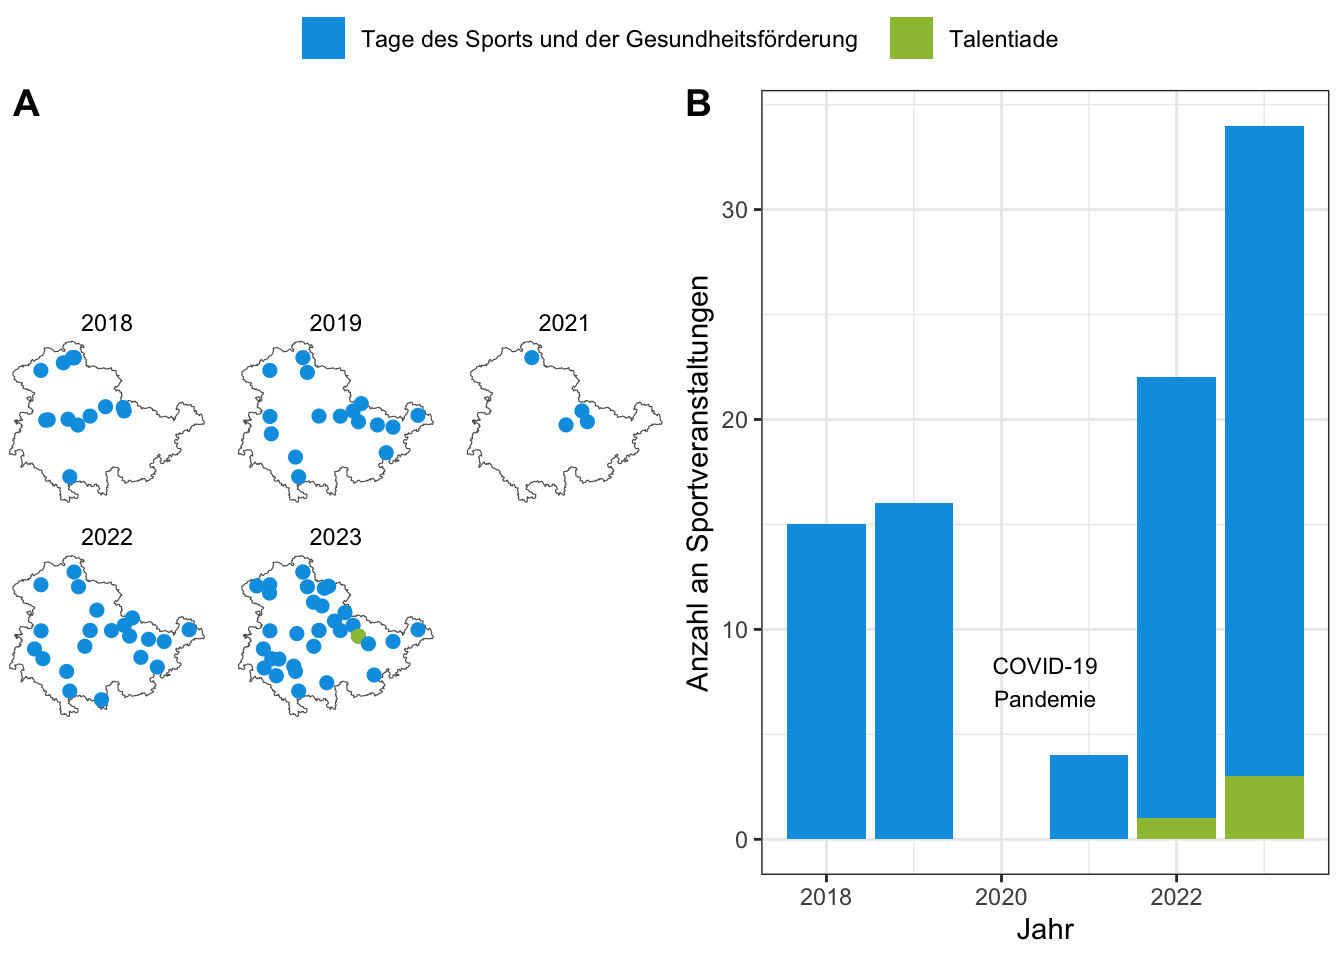
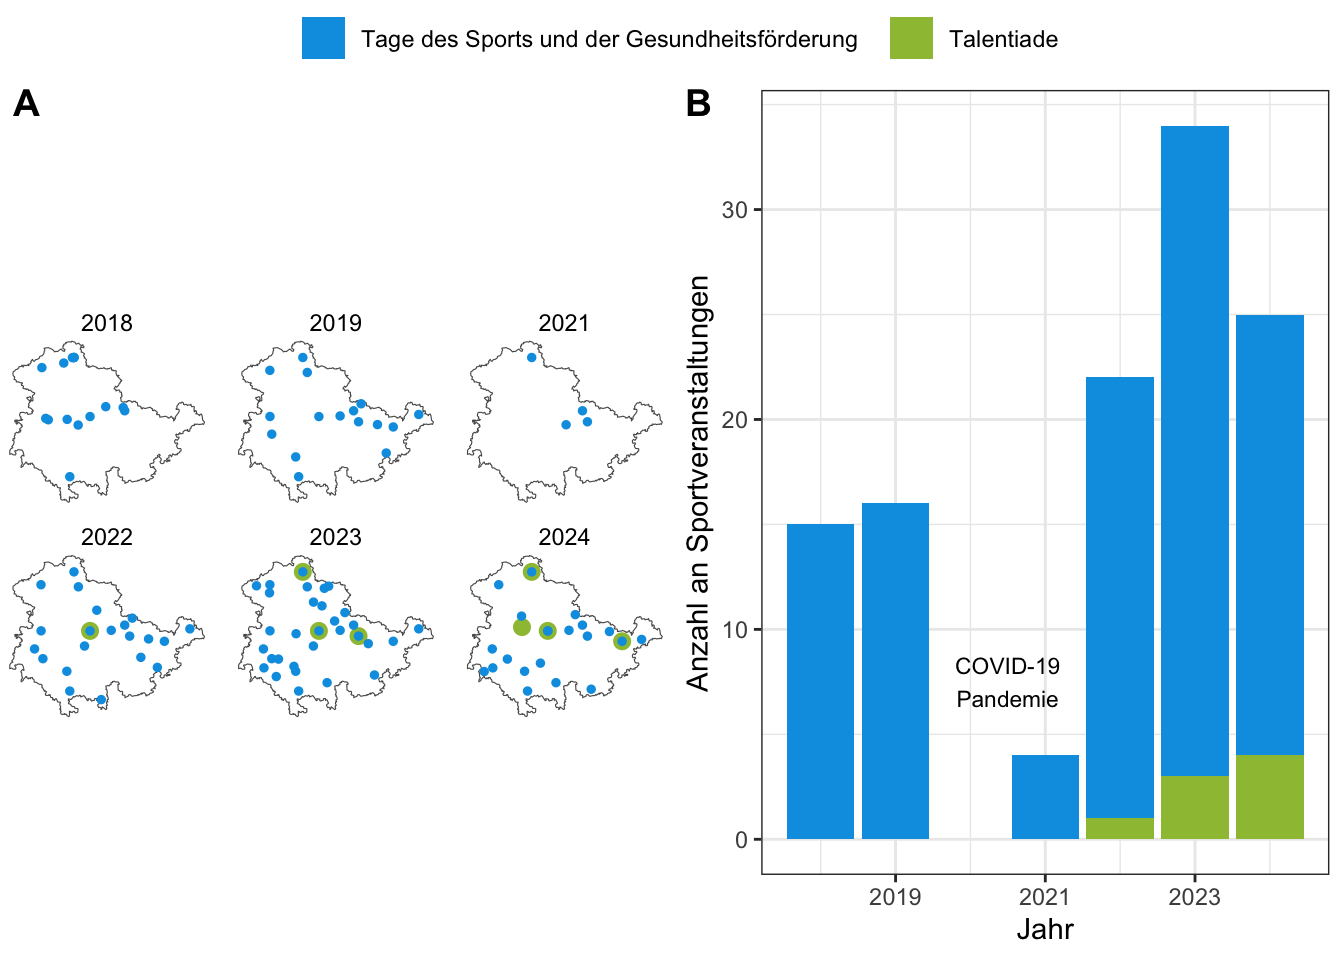
Sportveranstaltungen

diff --git a/docs/003.html b/docs/003.html
@@ -108,7 +108,7 @@ ul.task-list li input[type="checkbox"] {
       <button type="button" class="quarto-btn-toggle btn" data-bs-toggle="collapse" data-bs-target="#quarto-sidebar,#quarto-sidebar-glass" aria-controls="quarto-sidebar" aria-expanded="false" aria-label="Seitenleiste umschalten" onclick="if (window.quartoToggleHeadroom) { window.quartoToggleHeadroom(); }">
         <i class="bi bi-layout-text-sidebar-reverse"></i>
       </button>
-      <nav class="quarto-page-breadcrumbs" aria-label="breadcrumb"><ol class="breadcrumb"><li class="breadcrumb-item"><a href="./003.html">Sport-Veranstaltungen</a></li><li class="breadcrumb-item"><a href="./003.html">2018-2023</a></li></ol></nav>
+      <nav class="quarto-page-breadcrumbs" aria-label="breadcrumb"><ol class="breadcrumb"><li class="breadcrumb-item"><a href="./003.html">Sport-Veranstaltungen</a></li><li class="breadcrumb-item"><a href="./003.html">2018-2024</a></li></ol></nav>
       <a class="flex-grow-1" role="button" data-bs-toggle="collapse" data-bs-target="#quarto-sidebar,#quarto-sidebar-glass" aria-controls="quarto-sidebar" aria-expanded="false" aria-label="Seitenleiste umschalten" onclick="if (window.quartoToggleHeadroom) { window.quartoToggleHeadroom(); }">      
       </a>
       <button type="button" class="btn quarto-search-button" aria-label="Suchen" onclick="window.quartoOpenSearch();">
@@ -169,7 +169,7 @@ ul.task-list li input[type="checkbox"] {
           <li class="sidebar-item">
   <div class="sidebar-item-container"> 
   <a href="./003.html" class="sidebar-item-text sidebar-link active">
- <span class="menu-text">2018-2023</span></a>
+ <span class="menu-text">2018-2024</span></a>
   </div>
 </li>
       </ul>
@@ -236,7 +236,7 @@ ul.task-list li input[type="checkbox"] {
     <div>
     <div class="quarto-title-meta-heading">Geändert</div>
     <div class="quarto-title-meta-contents">
-      <p class="date-modified">28. März 2024</p>
+      <p class="date-modified">10. Juni 2024</p>
     </div>
   </div>
     
@@ -245,12 +245,14 @@ ul.task-list li input[type="checkbox"] {
 <div>
   <div class="abstract">
     <div class="abstract-title">Zusammenfassung</div>
-    <p>Die folgende Seite fasst die vergangenen und aktuellen Sport-Veranstaltungen “Talentiade” und “Tage des Sports und der Gesudheitsförderung” im Rahmen des Programmes “Bewegte Kinder = Gesündere Kinder” in Thüringen zusammen.</p>
+    <p>Die folgende Seite fasst zusammen, <em>wann</em> und <em>wo</em> Sport-Veranstaltungen “Talentiade” und “Tage des Sports und der Gesudheitsförderung” im Rahmen des Programms “Bewegte Kinder = Gesündere Kinder” in Thüringen stattfanden.</p>
   </div>
 </div>
 
 </header>
 
+<section id="räumliche-verteilung-und-entwicklung-der-veranstaltungen" class="level2">
+<h2 class="anchored" data-anchor-id="räumliche-verteilung-und-entwicklung-der-veranstaltungen">Räumliche Verteilung und Entwicklung der Veranstaltungen</h2>
 <div class="cell">
 <div class="cell-output-display">
 <div class="quarto-figure quarto-figure-center">
@@ -261,18 +263,48 @@ ul.task-list li input[type="checkbox"] {
 </div>
 </div>
 </div>
+</section>
+<section id="talentiaden" class="level2">
+<h2 class="anchored" data-anchor-id="talentiaden">Talentiaden</h2>
+<section id="veranstaltungsorte" class="level3">
+<h3 class="anchored" data-anchor-id="veranstaltungsorte">Veranstaltungsorte</h3>
 <div class="cell">
 <div class="cell-output-display">
 
-<div class="reactable html-widget html-fill-item" id="htmlwidget-518828a0e9884a7de484" style="width:auto;height:auto;"></div>
-<script type="application/json" data-for="htmlwidget-518828a0e9884a7de484">{"x":{"tag":{"name":"Reactable","attribs":{"data":{"Datum":["2018-04-21","2018-05-05","2018-05-25","2018-06-03","2018-06-06","2018-06-14","2018-06-18","2018-06-20","2018-06-21","2018-06-21","2018-06-22","2018-06-22","2018-06-23","2018-06-25","2018-08-29","2019-03-30","2019-05-01","2019-05-09","2019-05-18","2019-05-25","2019-05-25","2019-06-01","2019-06-08","2019-06-08","2019-06-15","2019-06-22","2019-06-22","2019-06-29","2019-06-29","2019-09-07","2019-11-17","2021-09-04","2021-09-11","2021-09-25","2021-12-04","2022-04-30","2022-05-01","2022-05-07","2022-05-14","2022-05-21","2022-05-21","2022-05-22","2022-06-09","2022-06-11","2022-06-11","2022-06-11","2022-06-15","2022-06-24","2022-06-25","2022-06-25","2022-07-01","2022-07-02","2022-07-09","2022-07-09","2022-07-16","2022-07-17","2022-09-03","2023-03-25","2023-04-22","2023-04-22","2023-04-29","2023-04-29","2023-05-01","2023-05-06","2023-05-06","2023-05-06","2023-05-13","2023-05-19","2023-05-24","2023-05-27","2023-05-31","2023-06-01","2023-06-01","2023-06-02","2023-06-03","2023-06-04","2023-06-08","2023-06-10","2023-06-10","2023-06-10","2023-06-10","2023-06-15","2023-06-17","2023-06-17","2023-06-17","2023-06-23","2023-06-24","2023-06-24","2023-06-25","2023-06-30","2023-07-01"],"Ort":["Leinefelde-Worbis","Wutha-Farnroda","Schönau (Wutha-Farnroda)","Hildburghausen","Apolda","Berlstedt","Nordhausen","Zottelstedt","Nordhausen","Wandersleben","Niedersalza","Nordhausen","Wipperdorf","Erfurt","Gotha","Leinefelde","Erfurt","Bad Liebenstein","Zeulenroda","Gera","Nordhausen","Hermsdorf/Thür.","Eisenach","Sondershausen","Jena","Altenburg","Hildburghausen","Apolda","Suhl","Bad Sulza","Weimar","Nordhausen","Bad Berka","Jena","Apolda","Leinefelde","Erfurt","Sonneberg","Sömmerda","Jena","Sondershausen","Hildburghausen","Bad Salzungen","Altenburg","Erfurt","Weimar","Wernshausen","Suhl","Neustadt/Orla","Nordhausen","Zeulenroda","Apolda","Arnstadt","Eisenach","Gera","Hermsdorf/Thür.","Bad Sulza","Erfurt","Leinefelde","Weimar","Gera","Heilbad Heiligenstadt/Thüringen","Greußen","Hildburghausen","Jena","Nordhausen","Mannstedt","Dingelstädt","Sondershausen","Schmalkalden","Meiningen","Bad Frankenhausen","Zella-Mehlis","Berlstedt","Nordhausen","Suhl","Bad Salzungen","Altenburg","Gotha","Jena","Udersleben","Erfurt","Apolda","Neuhaus am Rennweg","Weißensee/Thüringen","Stadtroda","Eisenach","Wernshausen","Schleiz","Oepfershausen","Arnstadt"],"Veranstaltung":["Tage des Sports und der Gesundheitsförderung ","Tage des Sports und der Gesundheitsförderung ","Tage des Sports und der Gesundheitsförderung ","Tage des Sports und der Gesundheitsförderung ","Tage des Sports und der Gesundheitsförderung ","Tage des Sports und der Gesundheitsförderung ","Tage des Sports und der Gesundheitsförderung ","Tage des Sports und der Gesundheitsförderung ","Tage des Sports und der Gesundheitsförderung ","Tage des Sports und der Gesundheitsförderung ","Tage des Sports und der Gesundheitsförderung ","Tage des Sports und der Gesundheitsförderung ","Tage des Sports und der Gesundheitsförderung ","Tage des Sports und der Gesundheitsförderung ","Tage des Sports und der Gesundheitsförderung ","Tage des Sports und der Gesundheitsförderung ","Tage des Sports und der Gesundheitsförderung ","Tage des Sports und der Gesundheitsförderung ","Tage des Sports und der Gesundheitsförderung ","Tage des Sports und der Gesundheitsförderung ","Tage des Sports und der Gesundheitsförderung ","Tage des Sports und der Gesundheitsförderung ","Tage des Sports und der Gesundheitsförderung ","Tage des Sports und der Gesundheitsförderung ","Tage des Sports und der Gesundheitsförderung ","Tage des Sports und der Gesundheitsförderung ","Tage des Sports und der Gesundheitsförderung ","Tage des Sports und der Gesundheitsförderung ","Tage des Sports und der Gesundheitsförderung ","Tage des Sports und der Gesundheitsförderung ","Tage des Sports und der Gesundheitsförderung ","Tage des Sports und der Gesundheitsförderung ","Tage des Sports und der Gesundheitsförderung ","Tage des Sports und der Gesundheitsförderung ","Tage des Sports und der Gesundheitsförderung ","Tage des Sports und der Gesundheitsförderung ","Tage des Sports und der Gesundheitsförderung ","Tage des Sports und der Gesundheitsförderung ","Tage des Sports und der Gesundheitsförderung ","Tage des Sports und der Gesundheitsförderung ","Tage des Sports und der Gesundheitsförderung ","Tage des Sports und der Gesundheitsförderung ","Tage des Sports und der Gesundheitsförderung ","Tage des Sports und der Gesundheitsförderung ","Talentiade","Tage des Sports und der Gesundheitsförderung ","Tage des Sports und der Gesundheitsförderung ","Tage des Sports und der Gesundheitsförderung ","Tage des Sports und der Gesundheitsförderung ","Tage des Sports und der Gesundheitsförderung ","Tage des Sports und der Gesundheitsförderung ","Tage des Sports und der Gesundheitsförderung ","Tage des Sports und der Gesundheitsförderung ","Tage des Sports und der Gesundheitsförderung ","Tage des Sports und der Gesundheitsförderung ","Tage des Sports und der Gesundheitsförderung ","Tage des Sports und der Gesundheitsförderung ","Talentiade","Tage des Sports und der Gesundheitsförderung ","Tage des Sports und der Gesundheitsförderung ","Tage des Sports und der Gesundheitsförderung ","Tage des Sports und der Gesundheitsförderung ","Tage des Sports und der Gesundheitsförderung ","Tage des Sports und der Gesundheitsförderung ","Tage des Sports und der Gesundheitsförderung ","Talentiade","Tage des Sports und der Gesundheitsförderung ","Tage des Sports und der Gesundheitsförderung ","Tage des Sports und der Gesundheitsförderung ","Tage des Sports und der Gesundheitsförderung ","Tage des Sports und der Gesundheitsförderung ","Tage des Sports und der Gesundheitsförderung ","Tage des Sports und der Gesundheitsförderung ","Tage des Sports und der Gesundheitsförderung ","Tage des Sports und der Gesundheitsförderung ","Tage des Sports und der Gesundheitsförderung ","Tage des Sports und der Gesundheitsförderung ","Tage des Sports und der Gesundheitsförderung ","Tage des Sports und der Gesundheitsförderung ","Talentiade","Tage des Sports und der Gesundheitsförderung ","Tage des Sports und der Gesundheitsförderung ","Tage des Sports und der Gesundheitsförderung ","Tage des Sports und der Gesundheitsförderung ","Tage des Sports und der Gesundheitsförderung ","Tage des Sports und der Gesundheitsförderung ","Tage des Sports und der Gesundheitsförderung ","Tage des Sports und der Gesundheitsförderung ","Tage des Sports und der Gesundheitsförderung ","Tage des Sports und der Gesundheitsförderung ","Tage des Sports und der Gesundheitsförderung "],"Jahr":["2018","2018","2018","2018","2018","2018","2018","2018","2018","2018","2018","2018","2018","2018","2018","2019","2019","2019","2019","2019","2019","2019","2019","2019","2019","2019","2019","2019","2019","2019","2019","2021","2021","2021","2021","2022","2022","2022","2022","2022","2022","2022","2022","2022","2022","2022","2022","2022","2022","2022","2022","2022","2022","2022","2022","2022","2022","2023","2023","2023","2023","2023","2023","2023","2023","2023","2023","2023","2023","2023","2023","2023","2023","2023","2023","2023","2023","2023","2023","2023","2023","2023","2023","2023","2023","2023","2023","2023","2023","2023","2023"]},"columns":[{"id":"Datum","name":"Datum","type":"Date"},{"id":"Ort","name":"Ort","type":"character"},{"id":"Veranstaltung","name":"Veranstaltung","type":"character","style":{"font-size":"0.70rem"}},{"id":"Jahr","name":"Jahr","type":"character"}],"groupBy":["Jahr"],"searchable":true,"dataKey":"31c038c5da6fabc438065f612274bd3e"},"children":[]},"class":"reactR_markup"},"evals":[],"jsHooks":[]}</script>
+<div class="reactable html-widget html-fill-item" id="htmlwidget-b242f6245e4f7cd94988" style="width:auto;height:auto;"></div>
+<script type="application/json" data-for="htmlwidget-b242f6245e4f7cd94988">{"x":{"tag":{"name":"Reactable","attribs":{"data":{"Jahr":[2022,2023,2023,2023,2024,2024,2024,2024],"Ort":["Erfurt","Erfurt","Nordhausen","Jena","Erfurt","Nessetal","Nordhausen","Gera"],"Datum":["2022-06-11","2023-03-25","2023-05-06","2023-06-10","2024-04-13","2024-04-27","2024-05-04","2024-08-24"],"Schulamt":["Mittelthüringen","Mittelthüringen","Nordthüringen","Ostthüringen","Mittelthüringen","Westthüringen","Nordthüringen","Ostthüringen"]},"columns":[{"id":"Jahr","name":"Jahr","type":"numeric"},{"id":"Ort","name":"Ort","type":"character"},{"id":"Datum","name":"Datum","type":"Date"},{"id":"Schulamt","name":"Schulamt","type":"character"}],"groupBy":["Jahr"],"searchable":true,"pagination":false,"dataKey":"250238a0661ae5ab8117cdb22b747d2f"},"children":[]},"class":"reactR_markup"},"evals":[],"jsHooks":[]}</script>
 </div>
 </div>
+</section>
+<section id="teilnehmerzahlen" class="level3">
+<h3 class="anchored" data-anchor-id="teilnehmerzahlen">Teilnehmerzahlen</h3>
+<p>Es ist nicht genau bekannt, wieviele Kinder vor dem Schuljahr 2023/2024 zu den Talentiaden eingeladen wurden, da nicht erfasst wurde, wieviele “Wildcards” (Schulen konnten begrenzt entscheiden konnten, welche Kinder zusätzlich an der Talentiade teilnehmen durften) tatsächlich an die Kinder weitergereicht wurden. Seit dem Schuljahr werden keine “Wildcards” mehr ausgegeben, wodurch die Anzahl eingeladener Kinder zu den Talentiadeveranstaltungen erfasst werden kann und den Organsiationsaufwand für die Veranstaltungen berechenbarer macht.</p>
+<div class="cell">
+<div class="cell-output-display">
+
+<div class="reactable html-widget html-fill-item" id="htmlwidget-abb3beda011a35bf24cb" style="width:auto;height:auto;"></div>
+<script type="application/json" data-for="htmlwidget-abb3beda011a35bf24cb">{"x":{"tag":{"name":"Reactable","attribs":{"data":{"Schuljahr":["2023/2024","2023/2024","2023/2024","2023/2024","2023/2024","2023/2024","2023/2024","2023/2024"],"Geschlecht":["m","w","m","w","m","w","m","w"],"Ort":["Erfurt","Erfurt","Nessetal","Nessetal","Nordhausen","Nordhausen","Gera","Gera"],"Datum":["2024-04-13","2024-04-13","2024-04-27","2024-04-27","2024-05-04","2024-05-04","2024-08-24","2024-08-24"],"Schulamt":["Mittelthüringen","Mittelthüringen","Westthüringen","Westthüringen","Nordthüringen","Nordthüringen","Ostthüringen","Ostthüringen"],"Einladungen":[167,156,249,232,165,157,235,257],"Teilnahmen":[64,59,72,88,59,54,"NA","NA"],"Teilnahmen (%)":[38,38,29,38,36,34,"NA","NA"]},"columns":[{"id":"Schuljahr","name":"Schuljahr","type":"character"},{"id":"Geschlecht","name":"Geschlecht","type":"character"},{"id":"Ort","name":"Ort","type":"character"},{"id":"Datum","name":"Datum","type":"Date"},{"id":"Schulamt","name":"Schulamt","type":"character"},{"id":"Einladungen","name":"Einladungen","type":"numeric","aggregate":"sum"},{"id":"Teilnahmen","name":"Teilnahmen","type":"numeric","aggregate":"sum"},{"id":"Teilnahmen (%)","name":"Teilnahmen (%)","type":"numeric"}],"groupBy":["Schulamt"],"searchable":true,"pagination":false,"dataKey":"f1a5081b65386decad47c55614018c11"},"children":[]},"class":"reactR_markup"},"evals":[],"jsHooks":[]}</script>
+</div>
+</div>
+</section>
+</section>
+<section id="tage-des-sports--und-der-gesundheitsförderung" class="level2">
+<h2 class="anchored" data-anchor-id="tage-des-sports--und-der-gesundheitsförderung">Tage des Sports- und der Gesundheitsförderung</h2>
+<p>Die Tabelle gruppiert die Veranstaltungsorte der “Tage des Sports- und der Gesundheitsförderung” nach Sportbünden. Durch einen Klick mit der Mouse auf einen Sportbund entfaltet sich die Gruppierung mit Informationen zu Ort und Datum. Teilnehmerzahlen zu den Tagen des Sports- und der Gesundheitsförderung werden nicht erfasst.</p>
+<div class="cell">
+<div class="cell-output-display">
+
+<div class="reactable html-widget html-fill-item" id="htmlwidget-3ac2a4eab3ca6d912a94" style="width:auto;height:auto;"></div>
+<script type="application/json" data-for="htmlwidget-3ac2a4eab3ca6d912a94">{"x":{"tag":{"name":"Reactable","attribs":{"data":{"Schuljahr":["2017/2018","2017/2018","2017/2018","2017/2018","2017/2018","2017/2018","2017/2018","2017/2018","2017/2018","2017/2018","2017/2018","2017/2018","2017/2018","2017/2018","2017/2018","2018/2019","2018/2019","2018/2019","2018/2019","2018/2019","2018/2019","2018/2019","2018/2019","2018/2019","2018/2019","2018/2019","2018/2019","2018/2019","2018/2019","2018/2019","2018/2019","2020/2021","2020/2021","2020/2021","2020/2021","2021/2022","2021/2022","2021/2022","2021/2022","2021/2022","2021/2022","2021/2022","2021/2022","2021/2022","2021/2022","2021/2022","2021/2022","2021/2022","2021/2022","2021/2022","2021/2022","2021/2022","2021/2022","2021/2022","2021/2022","2021/2022","2022/2023","2022/2023","2022/2023","2022/2023","2022/2023","2022/2023","2022/2023","2022/2023","2022/2023","2022/2023","2022/2023","2022/2023","2022/2023","2022/2023","2022/2023","2022/2023","2022/2023","2022/2023","2022/2023","2022/2023","2022/2023","2022/2023","2022/2023","2022/2023","2022/2023","2022/2023","2022/2023","2022/2023","2022/2023","2022/2023","2022/2023","2023/2024","2023/2024","2023/2024","2023/2024","2023/2024","2023/2024","2023/2024","2023/2024","2023/2024","2023/2024","2023/2024","2023/2024","2023/2024","2023/2024","2023/2024","2023/2024","2023/2024","2023/2024","2023/2024","2023/2024","2023/2024"],"Ort":["Leinefelde-Worbis","Wutha-Farnroda","Schönau (Wutha-Farnroda)","Hildburghausen","Apolda","Berlstedt","Nordhausen","Zottelstedt","Nordhausen","Wandersleben","Niedersalza","Nordhausen","Wipperdorf","Erfurt","Gotha","Leinefelde","Erfurt","Bad Liebenstein","Zeulenroda","Gera","Nordhausen","Hermsdorf/Thür.","Eisenach","Sondershausen","Jena","Altenburg","Hildburghausen","Apolda","Suhl","Bad Sulza","Weimar","Nordhausen","Bad Berka","Jena","Apolda","Leinefelde","Erfurt","Sonneberg","Sömmerda","Jena","Sondershausen","Hildburghausen","Bad Salzungen","Altenburg","Weimar","Wernshausen","Suhl","Neustadt/Orla","Nordhausen","Zeulenroda","Apolda","Arnstadt","Eisenach","Gera","Hermsdorf/Thür.","Bad Sulza","Leinefelde","Weimar","Gera","Heilbad Heiligenstadt/Thüringen","Greußen","Hildburghausen","Jena","Mannstedt","Dingelstädt","Sondershausen","Schmalkalden","Meiningen","Bad Frankenhausen","Zella-Mehlis","Berlstedt","Nordhausen","Suhl","Bad Salzungen","Altenburg","Gotha","Udersleben","Erfurt","Apolda","Neuhaus am Rennweg","Weißensee/Thüringen","Stadtroda","Eisenach","Wernshausen","Schleiz","Oepfershausen","Arnstadt","Weimar","Bad Langensalza","Hildburghausen","Gera","Erfurt","Jena","Leinefelde","Eisenberg","Suhl","Bad Salzungen","Neuhaus am Rennweg","Nordhausen","Schmalkalden","Schmölln","Kaltenwestheim","Erfurt","Ilmenau","Oepfershausen","Buttstädt","Apolda","Bad Lobenstein"],"Datum":["2018-04-21","2018-05-05","2018-05-25","2018-06-03","2018-06-06","2018-06-14","2018-06-18","2018-06-20","2018-06-21","2018-06-21","2018-06-22","2018-06-22","2018-06-23","2018-06-25","2018-08-29","2019-03-30","2019-05-01","2019-05-09","2019-05-18","2019-05-25","2019-05-25","2019-06-01","2019-06-08","2019-06-08","2019-06-15","2019-06-22","2019-06-22","2019-06-29","2019-06-29","2019-09-07","2019-11-17","2021-09-04","2021-09-11","2021-09-25","2021-12-04","2022-04-30","2022-05-01","2022-05-07","2022-05-14","2022-05-21","2022-05-21","2022-05-22","2022-06-09","2022-06-11","2022-06-11","2022-06-15","2022-06-24","2022-06-25","2022-06-25","2022-07-01","2022-07-02","2022-07-09","2022-07-09","2022-07-16","2022-07-17","2022-09-03","2023-04-22","2023-04-22","2023-04-29","2023-04-29","2023-05-01","2023-05-06","2023-05-06","2023-05-13","2023-05-19","2023-05-24","2023-05-27","2023-05-31","2023-06-01","2023-06-01","2023-06-02","2023-06-03","2023-06-04","2023-06-08","2023-06-10","2023-06-10","2023-06-10","2023-06-15","2023-06-17","2023-06-17","2023-06-17","2023-06-23","2023-06-24","2023-06-24","2023-06-25","2023-06-30","2023-07-01","2024-04-13","2024-04-20","2024-04-20","2024-04-27","2024-05-01","2024-05-04","2024-05-24","2024-05-31","2024-05-31","2024-06-01","2024-06-01","2024-06-01","2024-06-01","2024-06-01","2024-06-03","2024-06-06","2024-06-07","2024-06-07","2024-06-08","2024-06-12","2024-06-24"],"Sportbund":["KSB Eichsfeld e.V.","KSB Eisenach e.V.","KSB Gotha e.V.","KSB Hildburghausen e.V.","KSB Weimarer Land e.V.","KSB Weimarer Land e.V.","KSB Nordhausen e.V.","KSB Weimarer Land e.V.","KSB Nordhausen e.V.","KSB Gotha e.V.","KSB Nordhausen e.V.","KSB Nordhausen e.V.","KSB Nordhausen e.V.","SSB Erfurt e.V.","KSB Gotha e.V.","KSB Eichsfeld e.V.","SSB Erfurt e.V.","KSB Bad Salzungen e.V.","KSB Greiz e.V.","SSB Gera e.V.","KSB Nordhausen e.V.","KSB Saale-Holzland e.V.","KSB Eisenach e.V.","KSB Kyffhäuser e.V.","SSB Jena e.V.","KSB Altenburger Land e.V.","KSB Hildburghausen e.V.","KSB Weimarer Land e.V.","SSB Suhl e.V.","KSB Weimarer Land e.V.","SSB Weimar e.V.","KSB Nordhausen e.V.","KSB Weimarer Land e.V.","SSB Jena e.V.","KSB Weimarer Land e.V.","KSB Eichsfeld e.V.","SSB Erfurt e.V.","KSB Sonneberg e.V.","KSB Sömmerda e.V.","SSB Jena e.V.","KSB Kyffhäuser e.V.","KSB Hildburghausen e.V.","KSB Bad Salzungen e.V.","KSB Altenburger Land e.V.","SSB Weimar e.V.","KSB Schmalkalden-Meiningen e.V.","SSB Suhl e.V.","KSB Saale-Orla e.V.","KSB Nordhausen e.V.","KSB Greiz e.V.","KSB Weimarer Land e.V.","KSB Ilm-Kreis e.V.","KSB Eisenach e.V.","SSB Gera e.V.","KSB Saale-Holzland e.V.","KSB Weimarer Land e.V.","KSB Eichsfeld e.V.","SSB Weimar e.V.","SSB Gera e.V.","KSB Eichsfeld e.V.","KSB Kyffhäuser e.V.","KSB Hildburghausen e.V.","SSB Jena e.V.","KSB Sömmerda","KSB Eichsfeld e.V.","KSB Kyffhäuser e.V.","KSB Schmalkalden-Meiningen e.V.","KSB Schmalkalden-Meiningen e.V.","KSB Kyffhäuser e.V.","KSB Schmalkalden-Meiningen e.V.","KSB Weimarer Land e.V.","KSB Nordhausen e.V.","SSB Suhl e.V.","KSB Bad Salzungen e.V.","KSB Altenburger Land e.V.","KSB Gotha","KSB Kyffhäuser e.V.","SSB Erfurt e.V.","KSB Weimarer Land e.V.","KSB Sonneberg e.V.","KSB Sömmerda","KSB Saale-Holzland e.V.","KSB Eisenach e.V.","KSB Schmalkalden-Meiningen e.V.","KSB Saale-Orla e.V.","KSB Schmalkalden-Meiningen e.V.","KSB Ilm-Kreis e.V.","SSB Weimar e.V.","KSB Unstrut-Hainich e.V.","KSB Hildburghausen e.V.","SSB Gera e.V.","SSB Erfurt e.V.","SSB Jena e.V.","KSB Eichsfeld e.V.","KSB Saale-Holzland e.V.","SSB Suhl e.V.","KSB Bad Salzungen e.V.","KSB Sonneberg e.V.","KSB Nordhausen e.V.","KSB Schmalkalden-Meiningen e.V.","KSB Altenburger Land e.V.","KSB Schmalkalden-Meiningen e.V.","SSB Erfurt e.V.","KSB Ilm-Kreis e.V.","KSB Schmalkalden-Meiningen e.V.","KSB Sömmerda e.V.","KSB Weimarer Land e.V.","KSB Saale-Orla e.V."]},"columns":[{"id":"Schuljahr","name":"Schuljahr","type":"character"},{"id":"Ort","name":"Ort","type":"character"},{"id":"Datum","name":"Datum","type":"Date"},{"id":"Sportbund","name":"Sportbund","type":"character","style":{"font-size":"0.70rem"}}],"groupBy":["Sportbund"],"searchable":true,"pagination":false,"dataKey":"51ce976b5027bb491c2d2d3416cae124"},"children":[]},"class":"reactR_markup"},"evals":[],"jsHooks":[]}</script>
+</div>
+</div>
+</section>
 
 
 <div id="quarto-appendix" class="default"><section id="aktualisierungen" class="level1 appendix"><h2 class="anchored quarto-appendix-heading">Aktualisierungen</h2><div class="quarto-appendix-contents">
 
 <ul>
+<li>2024-06-10: Daten Schuljahr 2023/2024, Trennung Tabellen, Teilnehmerzahlen Talentiade, mehr Prosa</li>
 <li>2023-05-09: Entfernung BibTeX-Zitation, Figure-Caption an Rand, License</li>
 <li>2023-05-08: Zusammenfassung, Umstrukturierung</li>
 <li>2023-05-03: COVID-19-Pandemie Annnotation in Balkendiagramm</li>
